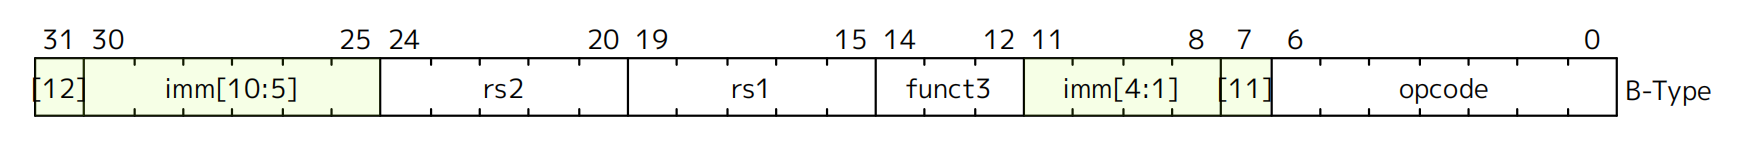
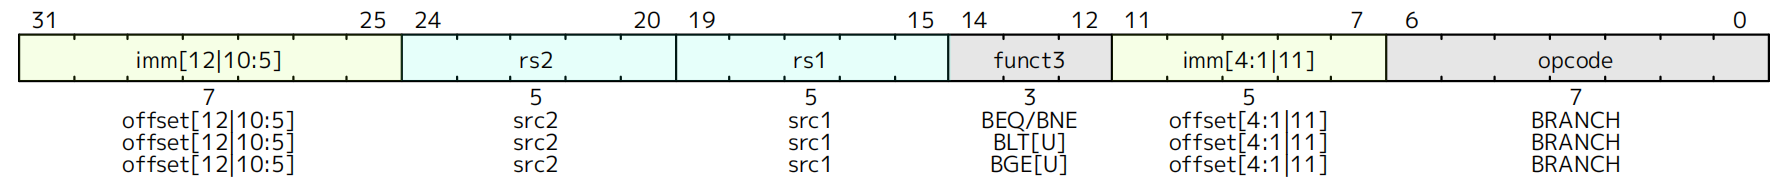
update

diff --git a/tutorial/datapath/s-type.md b/tutorial/datapath/s-type.md
@@ -1,5 +1,44 @@
 # S-type
 
+{% hint style="info" %}
+
+S-type instructions are used for store.
+
+{% endhint %}
+
+## S-Format Instruction Layout
+
 <figure><img src="../../.gitbook/assets/s-type.png" alt=""><figcaption></figcaption></figure>
 
+* $\rm Mem[Reg[rs1] + offset] \leftarrow Reg[rs2]$
+
+{% hint style="warning" %}
+
+**Immediate in two parts**
+
+* Can't have both *rs2* and *immediate* in same place as other instructions
+* RISC-V design decision is move low 5 bits of immediate to where rd field was in other instructions - keep rs1/rs2 fields in same place
+  * register names more critical than immediate bits in hardware design
+
+{% endhint %}
+
+## I+S Immediate Generation
+
+<figure><img src="../../.gitbook/assets/i+s-immgen.jpg" alt=""><figcaption></figcaption></figure>
+
+* Just need a 5-bit mux between two positions where low five bits of immediate can reside in instruction
+* Other bits in immediate are wired to fixed positions in instruction
+
+## Store Instructions
+
 <figure><img src="../../.gitbook/assets/s-type-instructions.png" alt=""><figcaption></figcaption></figure>
+
+## Datapath
+
+<figure><img src="../../.gitbook/assets/datapath4.jpg" alt=""><figcaption></figcaption></figure>
+
+{% hint style="info" %}
+
+How to control the amount of bytes to write to memory?
+
+{% endhint %}

diff --git a/tutorial/datapath/b-type.md b/tutorial/datapath/b-type.md
@@ -1,5 +1,23 @@
 # B-type
 
+{% hint style="info" %}
+
+All branch instructions use the B-type instruction format.
+
+* E.g., `BEQ x1, x2, Label`
+* Branches read two registers but don't write a register (similar to stores)
+
+{% endhint %}
+
+## B-Format Instruction Layout
+
 <figure><img src="../../.gitbook/assets/b-type.png" alt=""><figcaption></figcaption></figure>
+
+* B-Format is similar to S-Format, with two register sources (rs1/rs2) and a 12-bit immediate
+* The 12 immediate bits encode 13-bit signed byte offsets (low bit of offset is always zero, so no need to store it)
+* But now immediate represents values $-2^{12}$ to $+ 2^{12}$ in 2-byte increments
+
+
+## Branch Instructions
 
 <figure><img src="../../.gitbook/assets/b-type-instructions.png" alt=""><figcaption></figcaption></figure>

diff --git a/tutorial/datapath/i-type.md b/tutorial/datapath/i-type.md
@@ -1,6 +1,6 @@
 # I-type
 
-## I-Format Instruction Format
+## I-Format Instruction Layout
 
 <figure><img src="../../.gitbook/assets/i-type.png" alt=""><figcaption></figcaption></figure>
 
